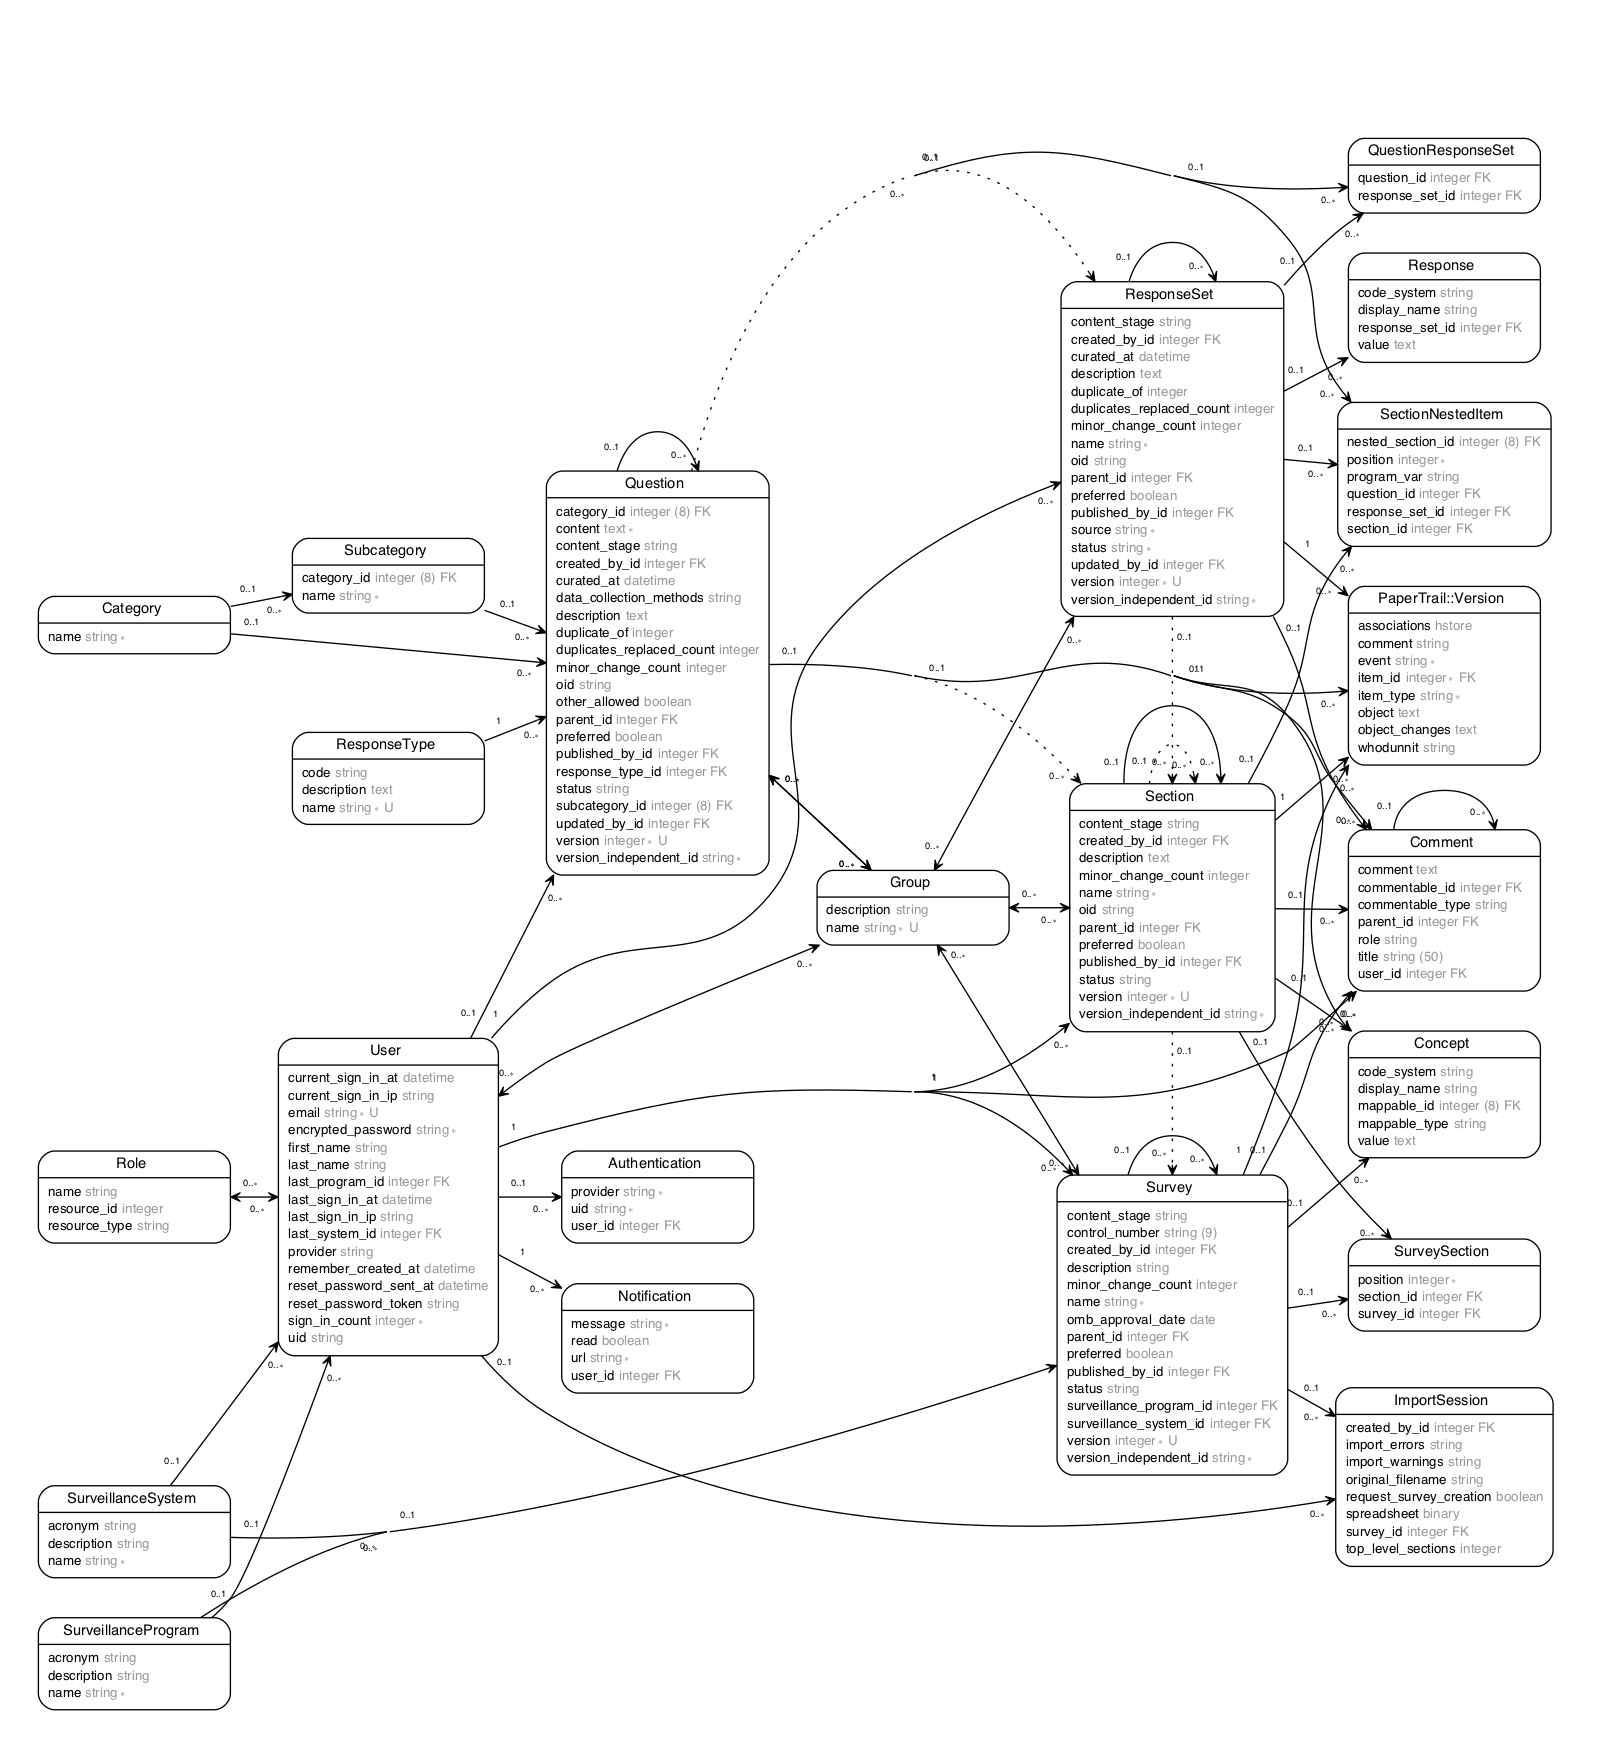
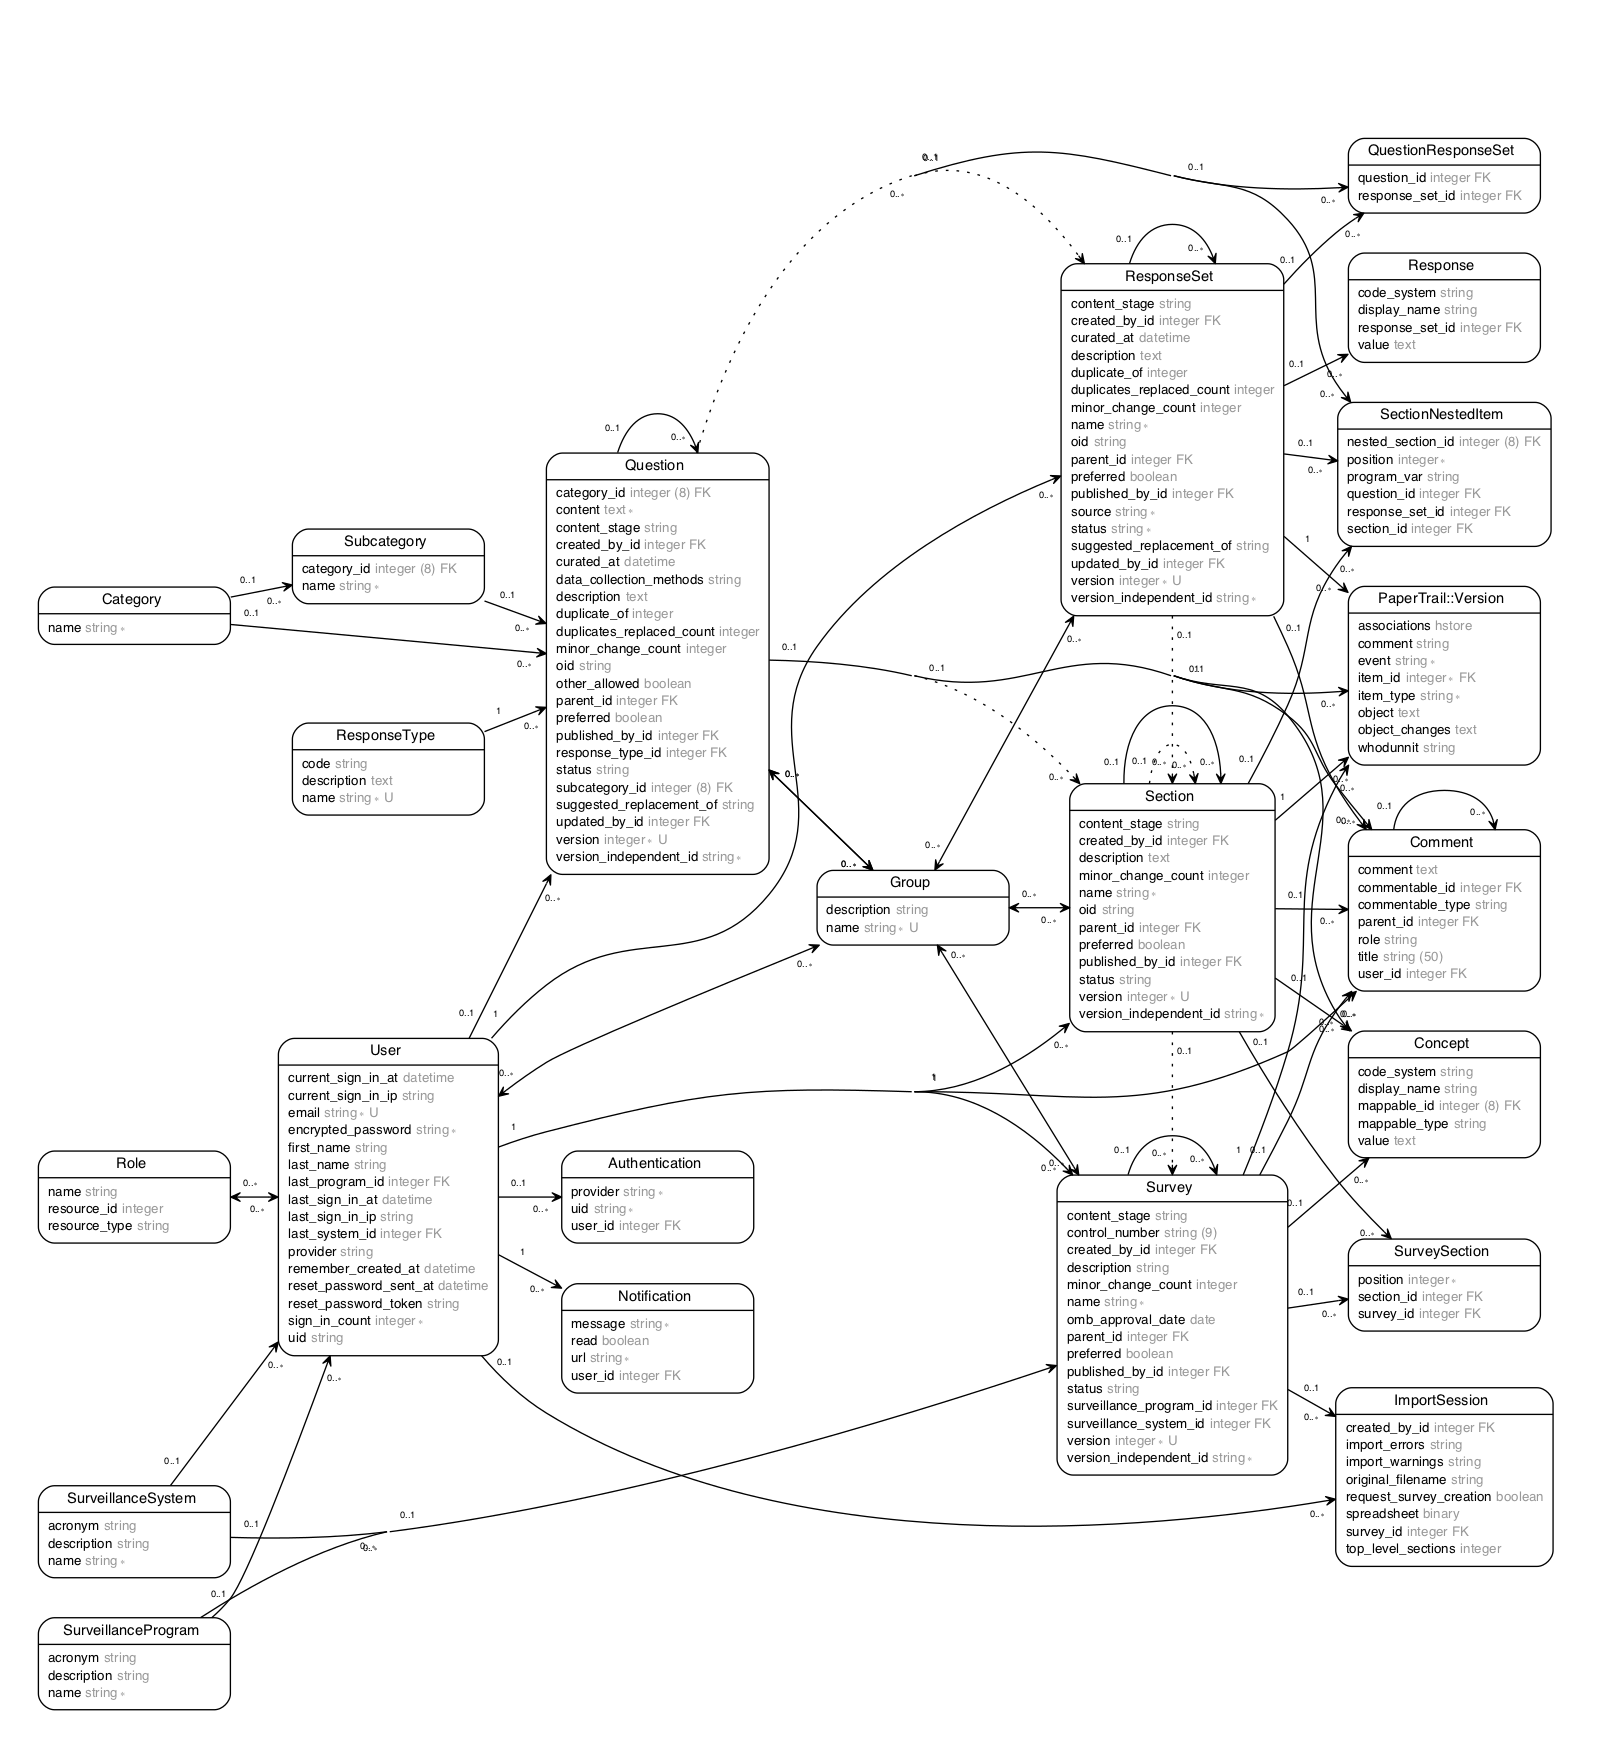
Test fixes

diff --git a/webpack/components/shared_show/CurationHistoryTab.js b/webpack/components/shared_show/CurationHistoryTab.js
@@ -1,10 +1,6 @@
 import React, {Component } from 'react';
 import PropTypes from 'prop-types';
-import parse from 'date-fns/parse';
-import format from 'date-fns/format';
 import { Link } from 'react-router';
-import Linkify from 'react-linkify';
-import CodedSetTable from "../CodedSetTable";
 
 class CurationHistoryTab extends Component {
   render() {
@@ -21,29 +17,31 @@ class CurationHistoryTab extends Component {
       );
     }
 
-function GetDuplicateLink(sEvent, nDuplicateOf) {
-  switch(sEvent)
-  {
-    case 'Response Set':
-      return <Link to={`/responseSets/${nDuplicateOf}`}>Response Set #{nDuplicateOf}</Link>
-    case 'Question':
-      return <Link to={`/questions/${nDuplicateOf}`}>Question #{nDuplicateOf}</Link>
-    default:
-      return 'Duplicate not found.';
-  }
-}
+    function GetDuplicateLink(sEvent, nDuplicateOf) {
+      switch(sEvent)  {
+        case 'Response Set':
+          return <Link to={`/responseSets/${nDuplicateOf}`}>Response Set #{nDuplicateOf}</Link>;
+        case 'Question':
+          return <Link to={`/questions/${nDuplicateOf}`}>Question #{nDuplicateOf}</Link>;
+        default:
+          return 'Duplicate not found.';
+      }
+    }
 
-function GetSuggestedRepOf(sEvent, sSuggestedReplacementOf) {
-  switch(sEvent)
-  {
-    case 'Response Set':
-      return sSuggestedReplacementOf.trim().split(" ").map((replace_id)=>{return(<u>{<Link to={`/responseSets/${replace_id}`}>Response Set #{replace_id}</Link>}<br/></u>);})
-    case 'Question':
-      return sSuggestedReplacementOf.trim().split(" ").map((replace_id)=>{return(<u>{<Link to={`/questions/${replace_id}`}>Question #{replace_id}</Link>}<br/></u>);})
-    default:
-      return 'Suggested Replacement not found.';
-  }
-}
+    function GetSuggestedRepOf(sEvent, sSuggestedReplacementOf) {
+      switch(sEvent)  {
+        case 'Response Set':
+          return sSuggestedReplacementOf.trim().split(" ").map((replaceId)=>{
+            return(<u>{<Link to={`/responseSets/${replaceId}`}>Response Set #{replaceId}</Link>}<br/></u>);
+          });
+        case 'Question':
+          return sSuggestedReplacementOf.trim().split(" ").map((replaceId)=>{
+            return(<u>{<Link to={`/questions/${replaceId}`}>Question #{replaceId}</Link>}<br/></u>);
+          });
+        default:
+          return 'Suggested Replacement not found.';
+      }
+    }
 
     return (
             <div className={`basic-c-box panel-default ${this.props.type}-type`}>
@@ -68,15 +66,16 @@ function GetSuggestedRepOf(sEvent, sSuggestedReplacementOf) {
                   {this.props.suggestedReplacementOf && this.props.objSetName && GetSuggestedRepOf(this.props.objSetName, this.props.suggestedReplacementOf)}
                 </div>
             </div>
-        );
-      }
+    );
+  }
     }
 
 CurationHistoryTab.propTypes = {
   duplicateOf: PropTypes.number,
-  suggestedreplacementOf: PropTypes.number,
+  suggestedReplacementOf: PropTypes.number,
   contentStage: PropTypes.string,
-  type: PropTypes.string
+  type: PropTypes.string,
+  objSetName: PropTypes.string
 };
 
 export default CurationHistoryTab;

diff --git a/webpack/components/questions/QuestionShow.js b/webpack/components/questions/QuestionShow.js
@@ -278,7 +278,7 @@ export default class QuestionShow extends Component {
           <div className="tab-content">
           <div className={`tab-pane ${this.state.selectedTab === 'curation' && 'active'}`} id="curation" role="tabpanel" aria-hidden={this.state.selectedTab !== 'curation'} aria-labelledby="curation-history-tab">
             {isSimpleEditable(question, this.props.currentUser) ? (
-              <CurationHistoryTab suggestedRepOf={question.suggestedRepOf} duplicateOf={question.duplicateOf} contentStage={question.contentStage} objSetName={'Question'} type='response_set'/>
+              <CurationHistoryTab suggestedRepOf={question.suggestedRepOf} duplicateOf={question.duplicateOf} contentStage={question.contentStage} objSetName={'Question'} type='question'/>
             ) : (
               <div className='basic-c-box panel-default question-type'>
                 <div className="panel-heading">

diff --git a/app/models/response_set.rb b/app/models/response_set.rb
@@ -103,10 +103,10 @@ class ResponseSet < ApplicationRecord
 
   def link_to_duplicate(replacement)
     self.duplicate_of = replacement
-    q_replacement = ResponseSet.find(replacement)
-    q_replacement.suggested_replacement_of == '' if q_replacement.suggested_replacement_of == nil?
-    q_replacement.suggested_replacement_of << "#{id} "
-    q_replacement.save!
+    rs_replacement = ResponseSet.find(replacement)
+    rs_replacement.suggested_replacement_of = '' if rs_replacement.suggested_replacement_of.nil?
+    rs_replacement.suggested_replacement_of << "#{id} "
+    rs_replacement.save!
     self.content_stage = 'Duplicate'
     self.duplicates_replaced_count += 1
   end

diff --git a/app/models/question.rb b/app/models/question.rb
@@ -108,7 +108,7 @@ class Question < ApplicationRecord
   def link_to_duplicate(replacement)
     self.duplicate_of = replacement
     q_replacement = Question.find(replacement)
-    q_replacement.suggested_replacement_of == '' if q_replacement.suggested_replacement_of == nil?
+    q_replacement.suggested_replacement_of = '' if q_replacement.suggested_replacement_of.nil?
     q_replacement.suggested_replacement_of << "#{id} "
     q_replacement.save!
     self.content_stage = 'Duplicate'
